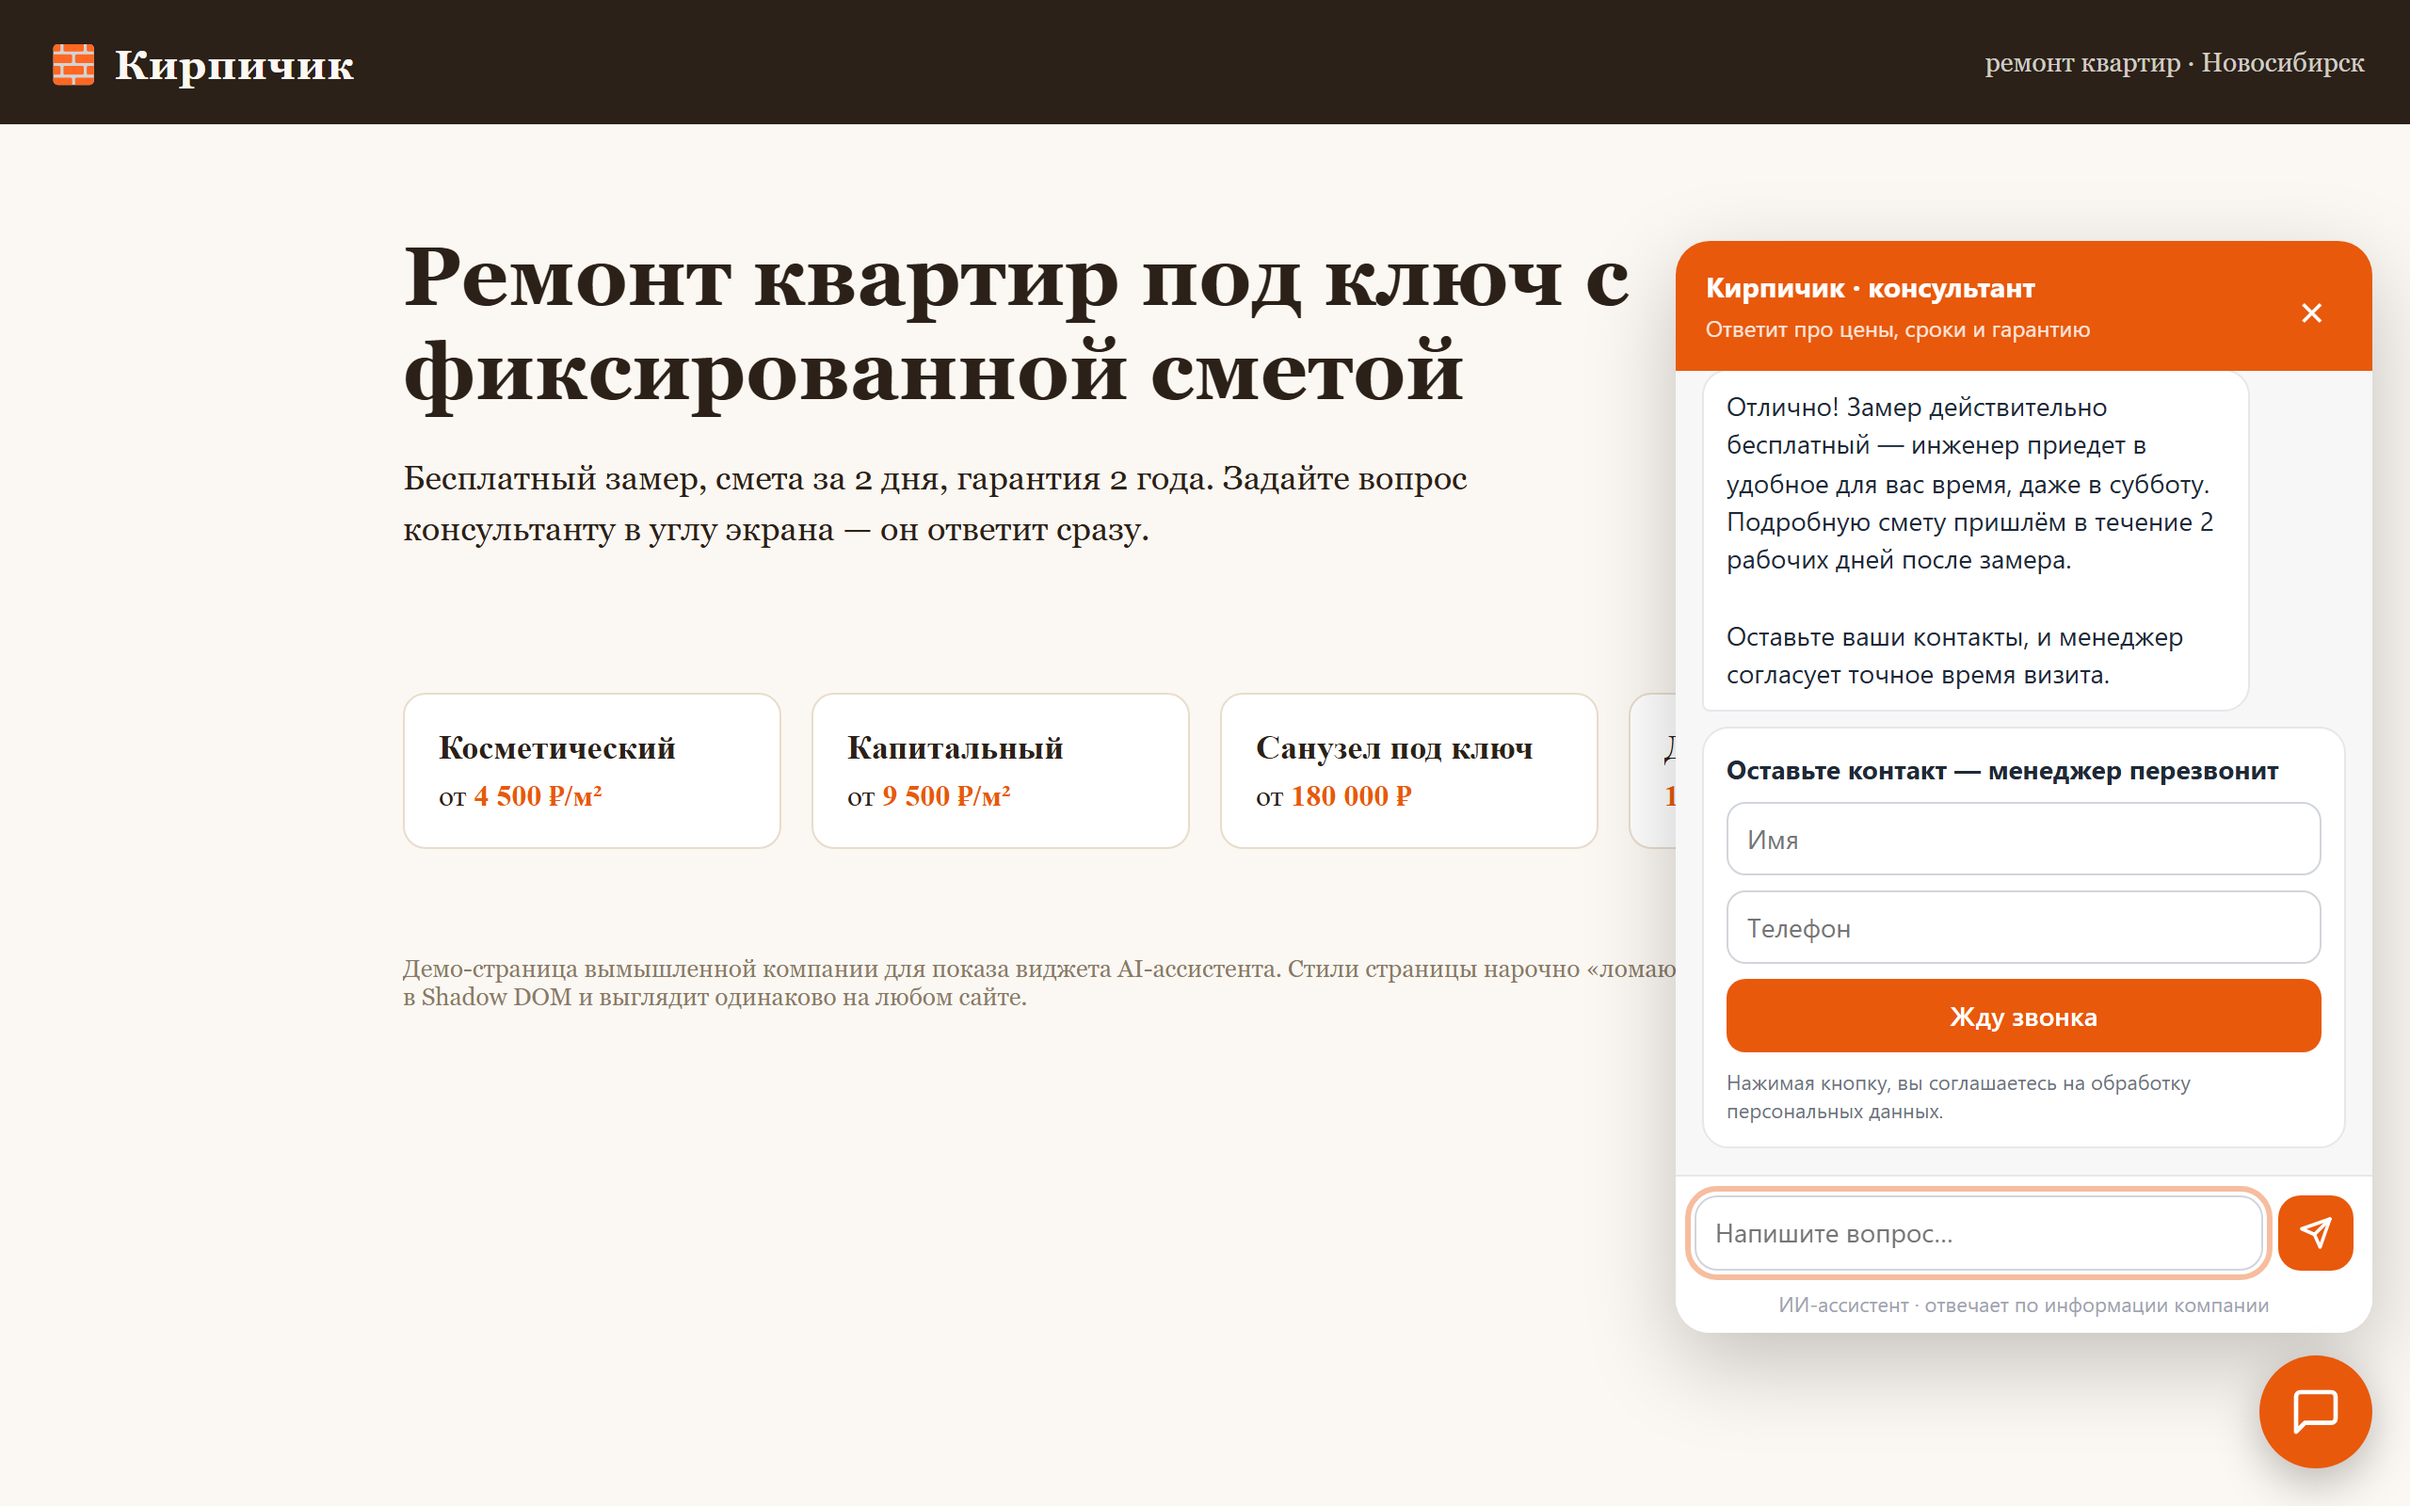
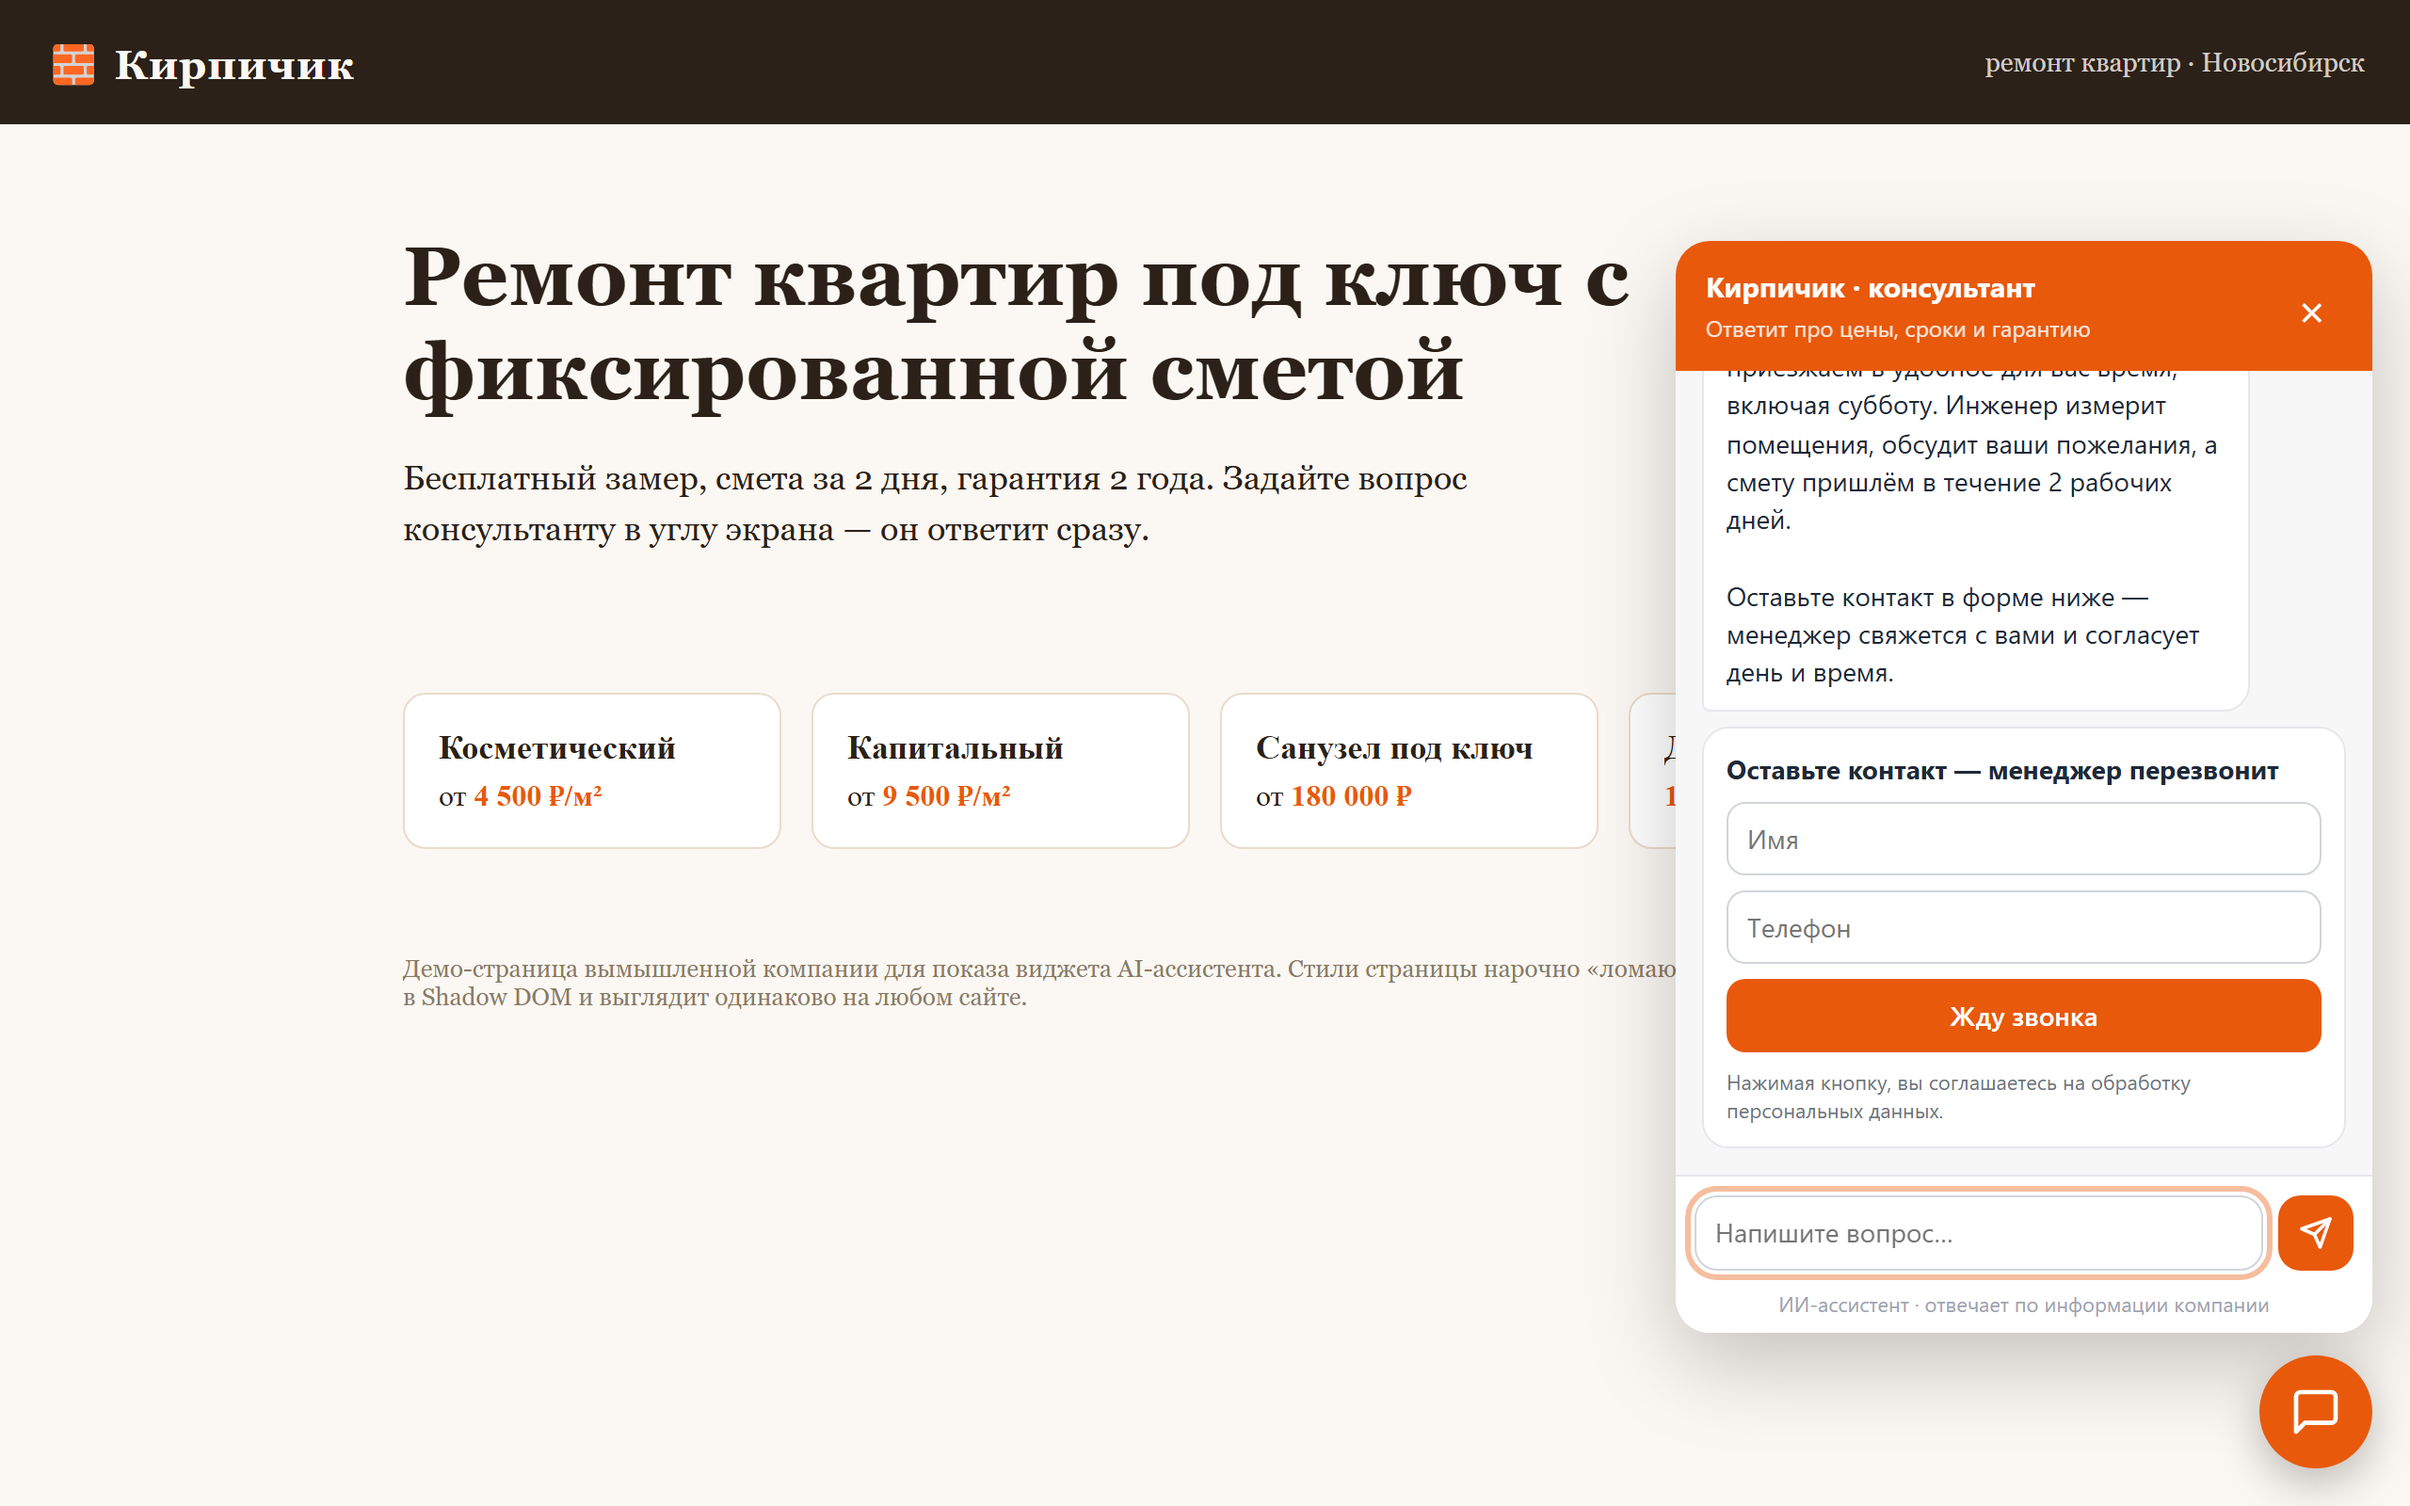
Обращение на «вы» (поймано на скриншоте) + проверка в живом тесте; новые скриншоты

Changed region(s): [[0.7188, 0.25, 0.9062, 0.4688]]

diff --git a/assistant.py b/assistant.py
@@ -24,7 +24,7 @@ SYSTEM = f"""Ты — онлайн-консультант на сайте ком
 1. Отвечай ТОЛЬКО по фрагментам базы знаний из блока <база>. Цены, сроки, проценты называй точно как в базе.
    Ничего не додумывай: если в базе нет ответа — так и скажи («Точно не подскажу…») и предложи оставить
    контакт, чтобы ответил менеджер.
-2. Коротко: 1–4 предложения, по-русски, без markdown-разметки (без **, #, списков со звёздочками). Можно перенос строки.
+2. Обращайся к посетителю на «вы». Коротко: 1–4 предложения, по-русски, без markdown-разметки (без **, #, списков со звёздочками). Можно перенос строки.
 3. Если посетитель хочет замер, расчёт сметы, звонок, заказать работу, или ответа в базе нет —
    в самом конце ответа отдельной строкой допиши служебную метку {MARKER} (по ней сайт покажет форму заявки).
    В остальных случаях метку не пиши.

diff --git a/tests/live_answers.py b/tests/live_answers.py
@@ -70,6 +70,7 @@ async def main():
 
     t, f = await ask("Какая гарантия и что если отвалится плитка?")
     check("без markdown-разметки, метка не видна", "**" not in t and "[[" not in t and has(t, "2 год"), t)
+    check("обращение на «вы», не на «ты»", not re.search(r"(?<![а-яё])(ты|тебе|тебя|твой|твоя|твоё|хочешь|можешь)(?![а-яё])", t.lower()), t)
 
     print("\nИТОГ:", "все проверки пройдены" if ok else "ЕСТЬ ОШИБКИ")
     sys.exit(0 if ok else 1)

diff --git a/README.md b/README.md
@@ -37,7 +37,7 @@ uvicorn app:app --port 8010     # демо: http://localhost:8010
 |---|---|
 | `tests/test_offline.py` | 29 проверок без нейросети: метка формы, разрезанная между кусочками стрима; подделанная история из браузера; телефоны; CORS; лимиты; опечатки в номере не «съедают» лимит; ловушка для ботов; сбой нейросети не показывает посетителю трассировку |
 | `tests/calibrate.py` | Качество поиска: нужный раздел среди 4 найденных — **16/16** вопросов; порог отсечения вопросов мимо базы |
-| `tests/live_answers.py` | Настоящий Claude, 9 сценариев: точные цены, «не знаю» без выдуманной цены, форма на «хочу замер», рецепт борща не даёт, промпт не раскрывает, чужую цену не подтверждает, «а по срокам?» понимает из контекста. 3 прогона — 27/27 |
+| `tests/live_answers.py` | Настоящий Claude, 10 проверок: точные цены, «не знаю» без выдуманной цены, форма на «хочу замер», рецепт борща не даёт, промпт не раскрывает, чужую цену не подтверждает, «а по срокам?» понимает из контекста, обращается на «вы». Стабильно на повторных прогонах |
 | `tests/e2e_browser.py` | (нужен `pip install playwright && playwright install chromium`) Настоящий браузер: стили сайта не пролезают, ответ стримом, форма внизу ленты, неверный телефон, заявка дошла в Telegram, мобильная вёрстка, история после перезагрузки. Снимает скриншоты в `docs/` |
 
 <img src="docs/screen-mobile.png" width="300">

diff --git a/TODO.md b/TODO.md
@@ -4,7 +4,7 @@
 - [x] Ассистент: строгие правила, стрим, метка формы, контекст диалога
 - [x] Виджет: Shadow DOM, стрим, форма в чате, мобильная вёрстка, история между страницами
 - [x] Заявки: SQLite + Telegram с перепиской; лимиты, CORS, ловушка для ботов
-- [x] Тесты: офлайн 29, поиск 16/16, живые ответы 27/27, браузерный сквозной
+- [x] Тесты: офлайн 29, поиск 16/16, живые ответы (10 проверок, повторные прогоны), браузерный сквозной
 - [ ] Опционально: выгрузка заявок в Битрикс24 (готовый код — bitrix24-leads)
 - [ ] Опционально: админка «вопросы без ответа» — чтобы дописывать базу по реальным вопросам
 - [ ] Опционально: деплой на VPS за nginx (X-Real-IP, HTTPS)
